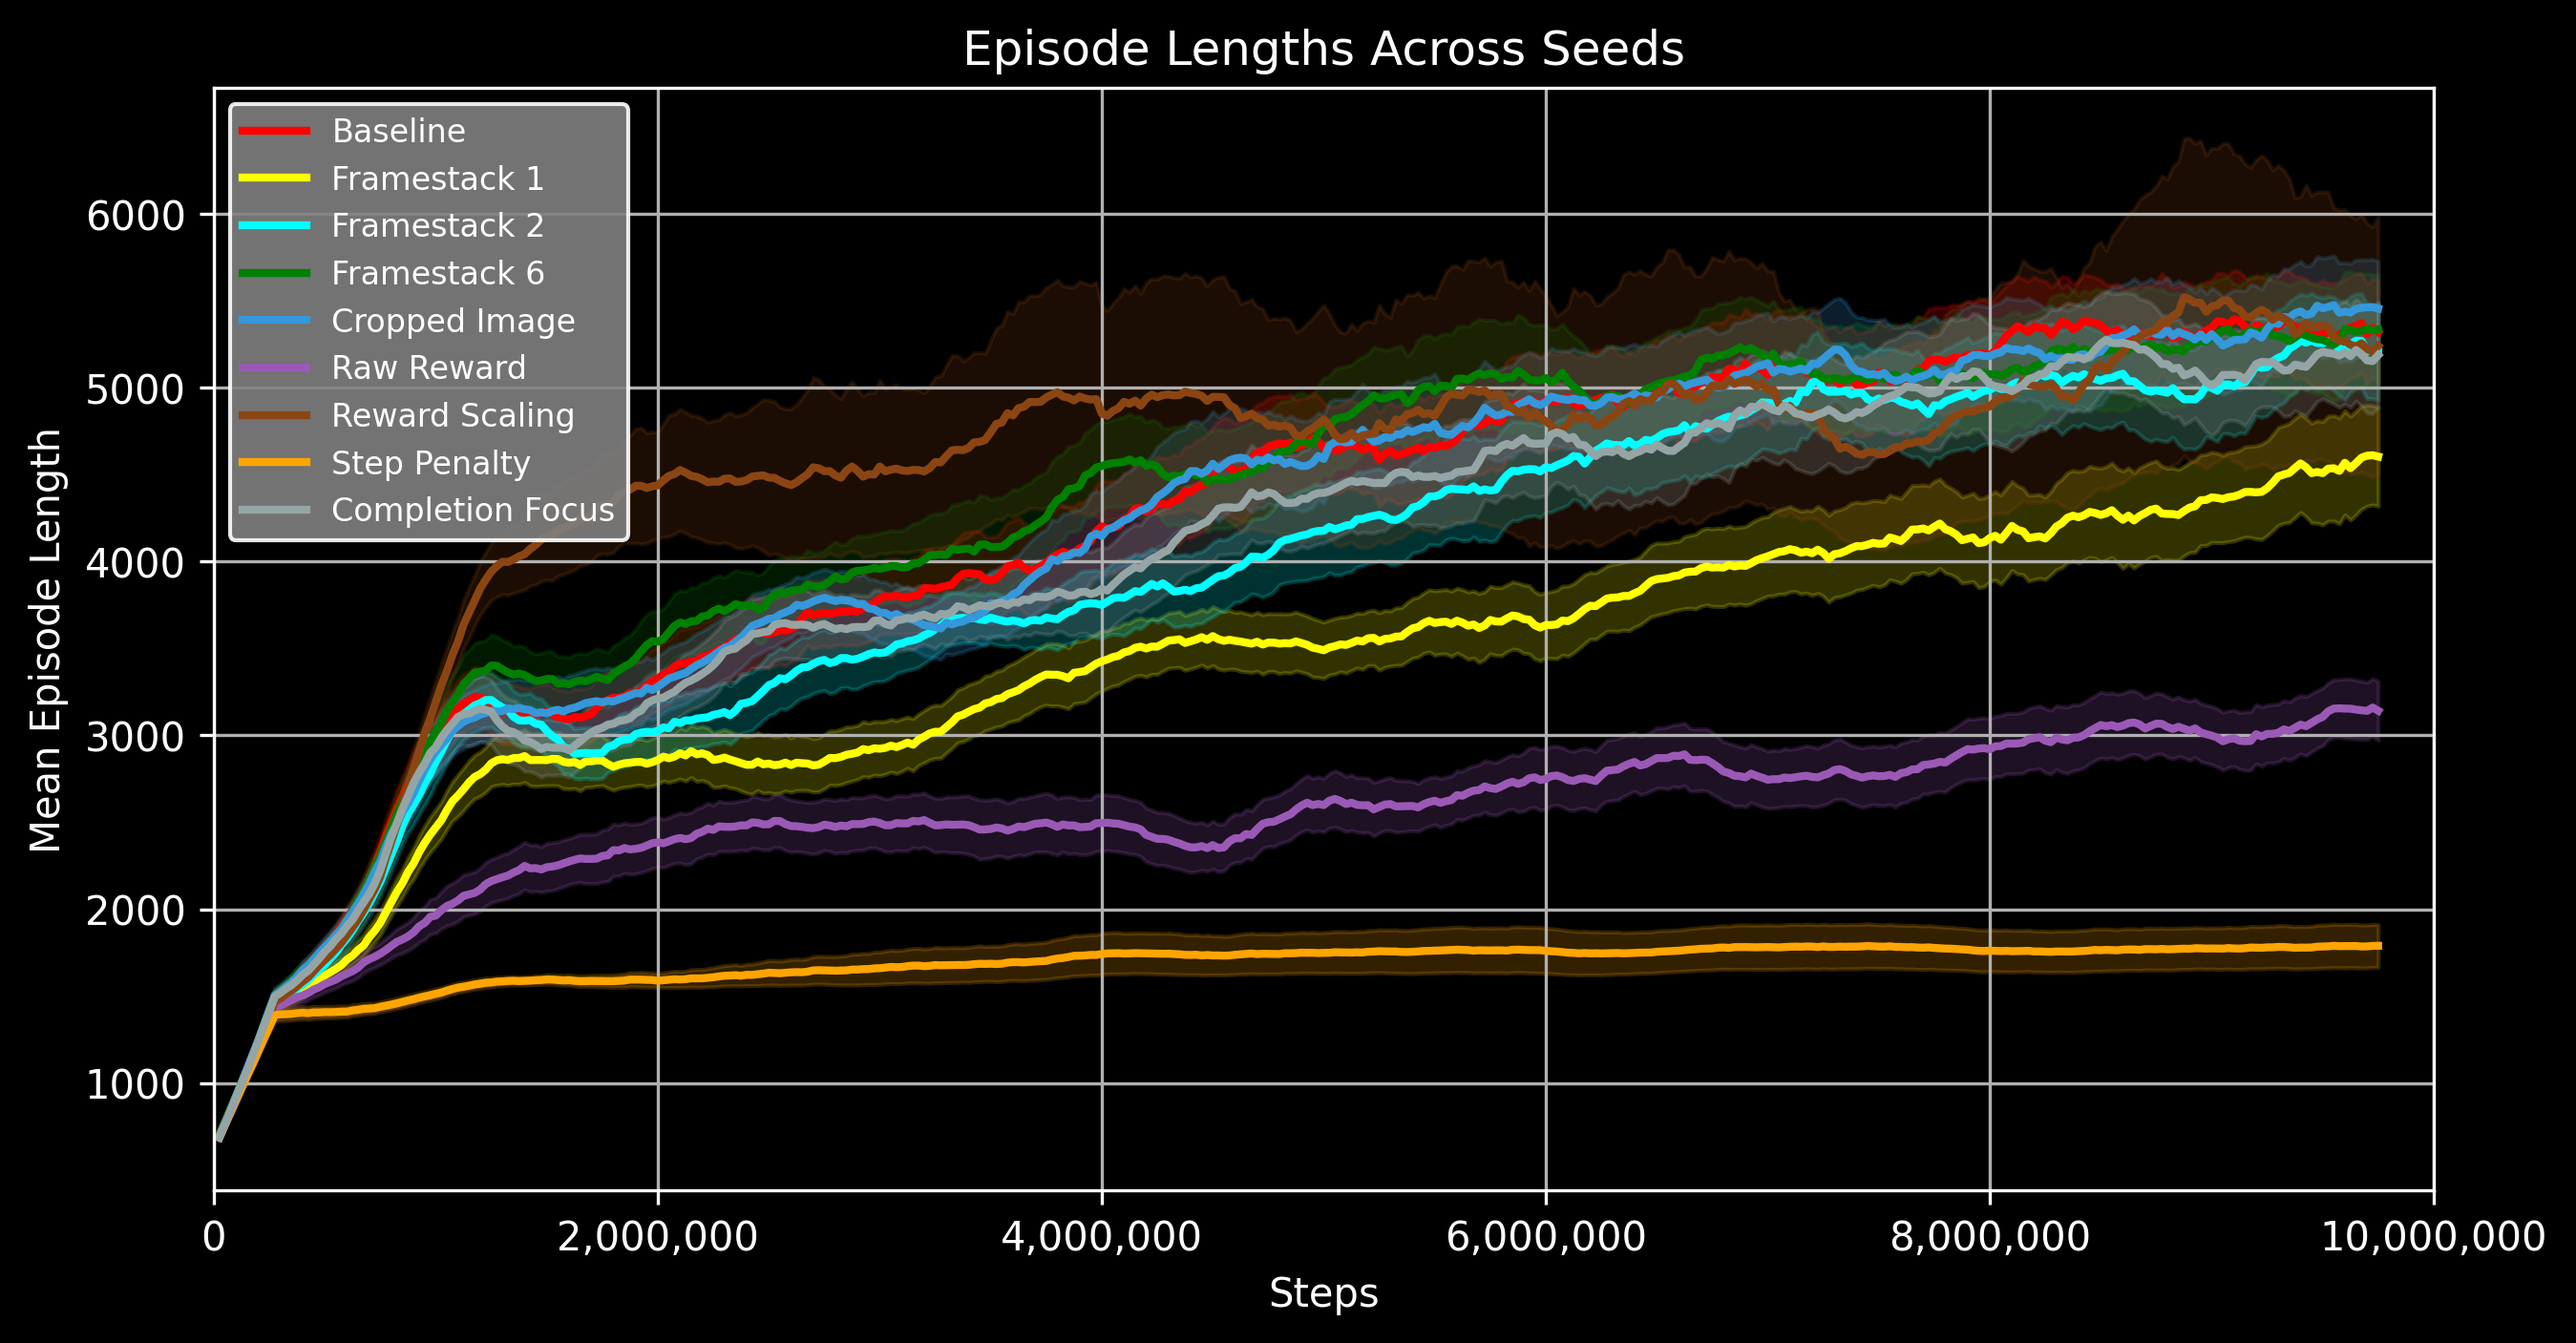
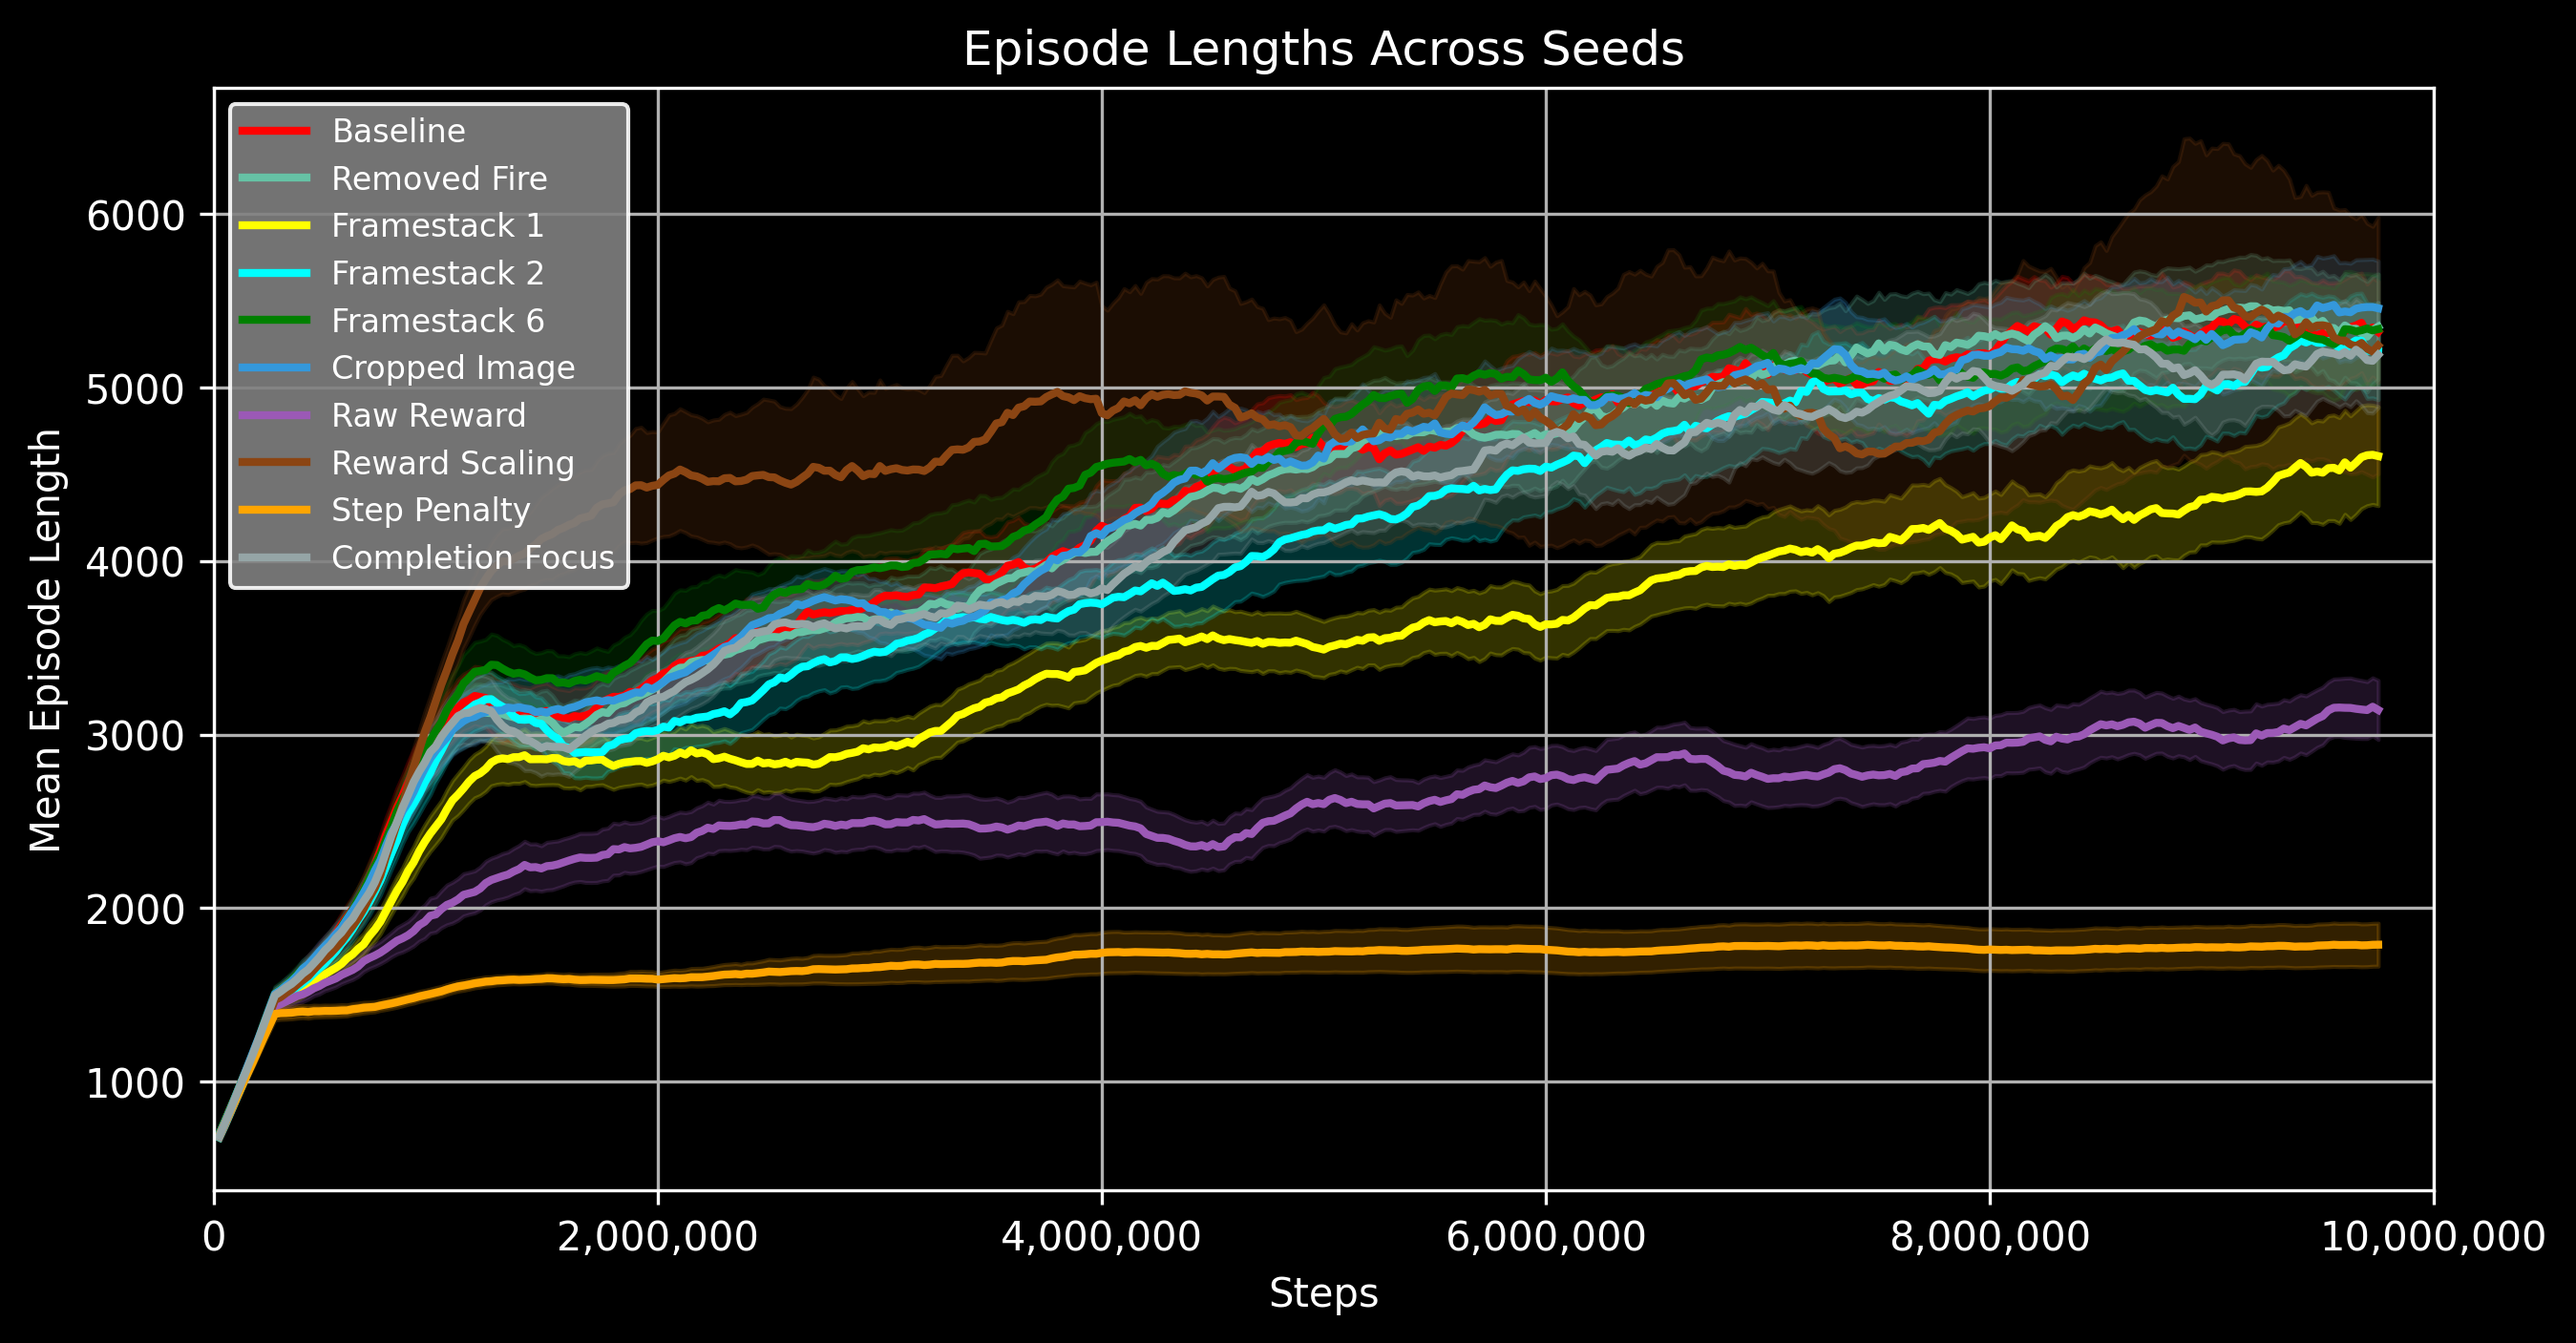
Fix

diff --git a/seminar/Plot_Code.py b/seminar/Plot_Code.py
@@ -22,11 +22,11 @@ import glob
 
 
 # Cropped Image
-plot_name = "Crop"
-experiments = [
-    ("logs/1e7ScratchBaseline/dqn/QbertNoFrameskip-v4_*/evaluations.npz", "Baseline", "red"),
-    ("logs/1e7Cropped/dqn/QbertNoFrameskip-v4_*/evaluations.npz", "Cropped Image", "green")
-]
+# plot_name = "Crop"
+# experiments = [
+#     ("logs/1e7ScratchBaseline/dqn/QbertNoFrameskip-v4_*/evaluations.npz", "Baseline", "red"),
+#     ("logs/1e7Cropped/dqn/QbertNoFrameskip-v4_*/evaluations.npz", "Cropped Image", "green")
+# ]
 
 
 # Step Penalty
@@ -65,19 +65,20 @@ experiments = [
 # ]
 
 # All in one
-# plot_name = "AllinOne"
-# experiments = [
-#     ("logs/1e7ScratchBaseline/dqn/QbertNoFrameskip-v4_*/evaluations.npz", "Baseline", "red"),
-#     ("logs/1e7ScratchFramestack1/dqn/QbertNoFrameskip-v4_*/evaluations.npz", "Framestack 1", "yellow"),
-#     ("logs/1e7ScratchFramestack2/dqn/QbertNoFrameskip-v4_*/evaluations.npz", "Framestack 2", "cyan"),
-#     ("logs/1e7ScratchFramestack6/dqn/QbertNoFrameskip-v4_*/evaluations.npz", "Framestack 6", "green"),
-#     ("logs/1e7Cropped/dqn/QbertNoFrameskip-v4_*/evaluations.npz", "Cropped Image", "#3498DB"),
-#     ("logs/1e7ScratchNoClip/dqn/QbertNoFrameskip-v4_*/evaluations.npz", "Raw Reward", "#9B59B6"),
-#     ("logs/1e7Standard/dqn/QbertNoFrameskip-v4_*/evaluations.npz", "Reward Scaling", "#8B4513"),
-#     ("logs/1e7StepPenalty/dqn/QbertNoFrameskip-v4_*/evaluations.npz", "Step Penalty", "orange"),
-#     ("logs/1e7CaCFokus/dqn/QbertNoFrameskip-v4_*/evaluations.npz", "Completion Focus", "#95A5A6"),
-#
-# ]
+plot_name = "AllinOne"
+experiments = [
+    ("logs/1e7ScratchBaseline/dqn/QbertNoFrameskip-v4_*/evaluations.npz", "Baseline", "red"),
+    ("logs/1e7FireRemove/dqn/QbertNoFrameskip-v4_*/evaluations.npz", "Removed Fire", "#66C2A5"),
+    ("logs/1e7ScratchFramestack1/dqn/QbertNoFrameskip-v4_*/evaluations.npz", "Framestack 1", "yellow"),
+    ("logs/1e7ScratchFramestack2/dqn/QbertNoFrameskip-v4_*/evaluations.npz", "Framestack 2", "cyan"),
+    ("logs/1e7ScratchFramestack6/dqn/QbertNoFrameskip-v4_*/evaluations.npz", "Framestack 6", "green"),
+    ("logs/1e7Cropped/dqn/QbertNoFrameskip-v4_*/evaluations.npz", "Cropped Image", "#3498DB"),
+    ("logs/1e7ScratchNoClip/dqn/QbertNoFrameskip-v4_*/evaluations.npz", "Raw Reward", "#9B59B6"),
+    ("logs/1e7Standard/dqn/QbertNoFrameskip-v4_*/evaluations.npz", "Reward Scaling", "#8B4513"),
+    ("logs/1e7StepPenalty/dqn/QbertNoFrameskip-v4_*/evaluations.npz", "Step Penalty", "orange"),
+    ("logs/1e7CaCFokus/dqn/QbertNoFrameskip-v4_*/evaluations.npz", "Completion Focus", "#95A5A6"),
+
+]
 
 dark_mode = True
 #metric = "ep_length"

diff --git a/seminar/Plot_Eval.py b/seminar/Plot_Eval.py
@@ -17,14 +17,14 @@ name_map = {
     '1e7ScratchNoClip': "Raw Reward",
     '1e7Standard': "Reward Scaling",
     '1e7StepPenalty': "Step Penalty",
-    '1e7FireRemove': "Fire Removed"
+    '1e7FireRemove': "Removed Fire"
 }
 
 df['experiment_label'] = df['experiment'].map(name_map)
 
 order = [
-    "Fire Removed",
     "Baseline",
+    "Removed Fire",
     "Framestack 1",
     "Framestack 2",
     "Framestack 6",

diff --git a/seminar/report.md b/seminar/report.md
@@ -305,7 +305,7 @@ Each line corresponds to one of the experiments.
 We can see that the experiment with the Step Penalty achieved the worst performance in both scores. Also, the agents using Min-Max Scaling and the raw reward did perform awfully in the score metric, 
 but in the episode length metric, the Min-Max-Scaling reached the same episode lengths as the top experiments because they stayed long in round 1 to lure Coily off.
 Using a single frame performed okay. Then we have a cluster of experiments that all reach a similar end score in training. The worst of these being stacking 2 frames, then the Completion Focus (this being the better rewards for coloring and round completion).
-A really similar performance was achieved by the Baseline, the stacking of 6 frames and the cropped image experiments. Here the Framestack 6 agents learn the fastest, but they also end up with the same metric scores as the baseline.
+A really similar performance was achieved by the Baseline, the removal of the fire action, the stacking of 6 frames and the cropped image experiments. Here the Framestack 6 agents learn the fastest, but they also end up with the same metric scores as the baseline.
 The use of the cropped image seems to have achieved the best performance at the end of training.
 
 ### Performance of the final agents
@@ -317,10 +317,10 @@ This Dataframe is loaded in [aggregate_eval.py](aggregate_eval.py) to get the me
 which consists of 300 evaluation episodes. The scores are then saved in `evaluation_overall.csv`. 
 We then get the following meaningful table:
 
-| Metric                                 | Baseline         | Framestack 1    | Framestack 2     | Framestack 6     | Cropped Image    | Raw Reward      | Reward Scaling  | Step Penalty    | Completion Focus | Fire Removed     |
-|----------------------------------------|------------------|-----------------|------------------|------------------|------------------|-----------------|-----------------|-----------------|------------------|------------------|
-| $\varnothing$ Score $\pm$ Std          | 12957 $\pm$ 3373 | 9059 $\pm$ 3063 | 12723 $\pm$ 2784 | 13006 $\pm$ 1583 | 13150 $\pm$ 2712 | 3792 $\pm$ 1085 | 4873 $\pm$ 2745 | 1859 $\pm$ 1722 | 11934 $\pm$ 2201 | 12270 $\pm$ 2717 |
-| $\varnothing$ Episode Length $\pm$ Std | 6125 $\pm$ 1151  | 4639 $\pm$ 701  | 6125 $\pm$ 840   | 6087 $\pm$ 784   | 6129 $\pm$ 917   | 3232 $\pm$ 651  | 8387 $\pm$ 6331 | 1775 $\pm$ 462  | 5645 $\pm$ 918   | 5888 $\pm$ 1114  |
+| Metric                                 | Baseline         | Removed Fire     | Framestack 1    | Framestack 2     | Framestack 6     | Cropped Image    | Raw Reward      | Reward Scaling  | Step Penalty    | Completion Focus |
+|----------------------------------------|------------------|------------------|-----------------|------------------|------------------|------------------|-----------------|-----------------|-----------------|------------------|
+| $\varnothing$ Score $\pm$ Std          | 12957 $\pm$ 3373 | 12270 $\pm$ 2717 | 9059 $\pm$ 3063 | 12723 $\pm$ 2784 | 13006 $\pm$ 1583 | 13150 $\pm$ 2712 | 3792 $\pm$ 1085 | 4873 $\pm$ 2745 | 1859 $\pm$ 1722 | 11934 $\pm$ 2201 |
+| $\varnothing$ Episode Length $\pm$ Std | 6125 $\pm$ 1151  | 5888 $\pm$ 1114  | 4639 $\pm$ 701  | 6125 $\pm$ 840   | 6087 $\pm$ 784   | 6129 $\pm$ 917   | 3232 $\pm$ 651  | 8387 $\pm$ 6331 | 1775 $\pm$ 462  | 5645 $\pm$ 918   |
 
 Shown as a bar chart we get the following graphic produced by [Plot_Eval.py](Plot_Eval.py):
 
